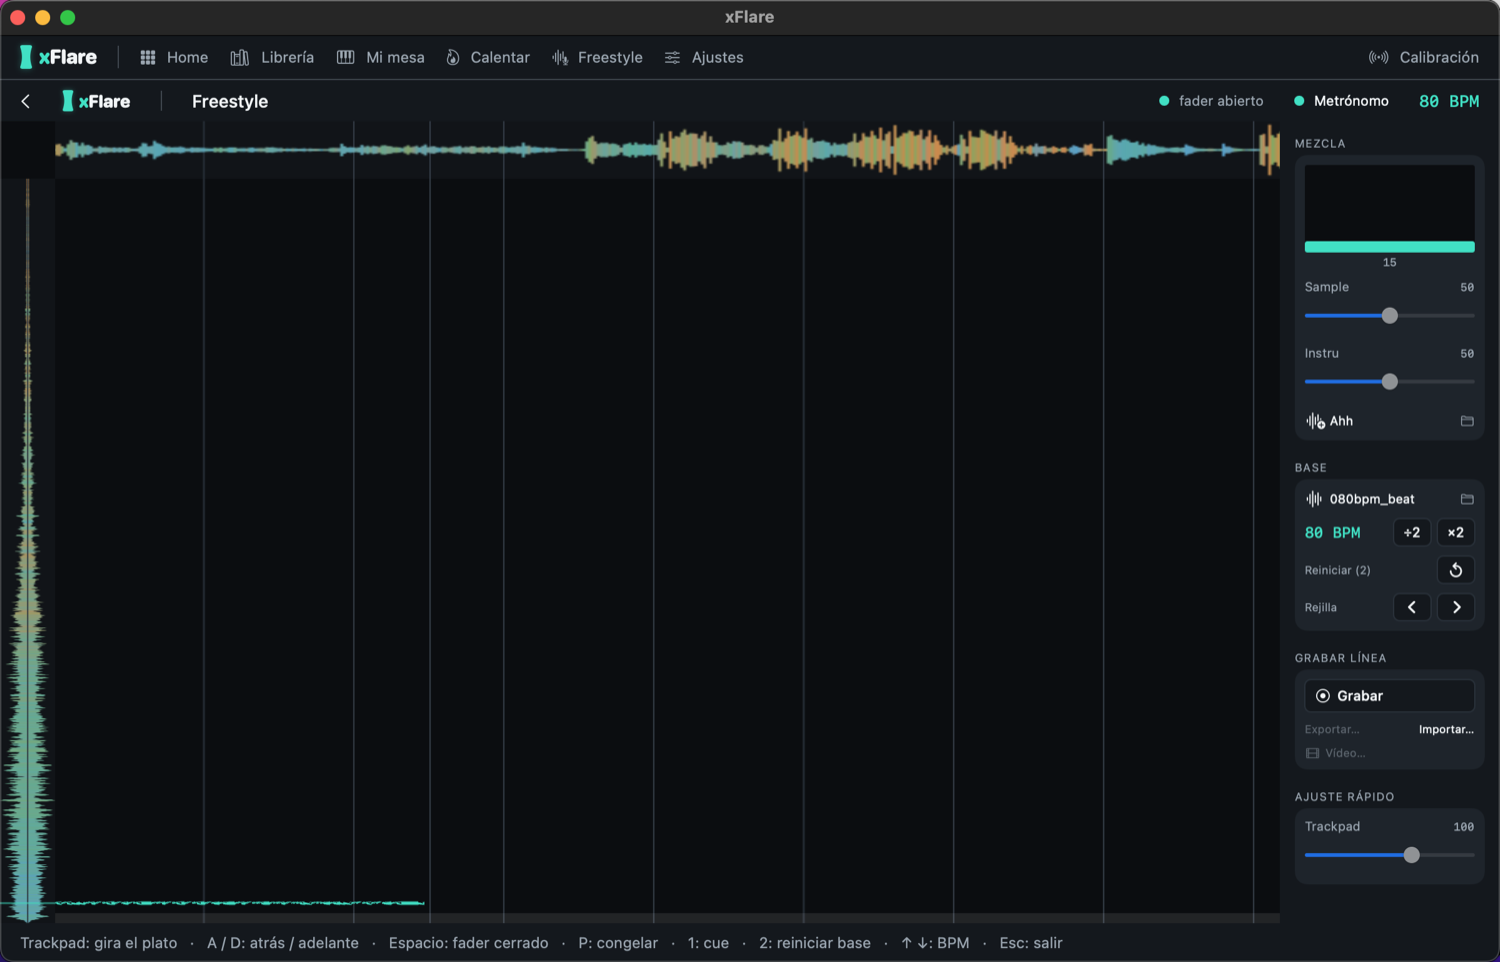
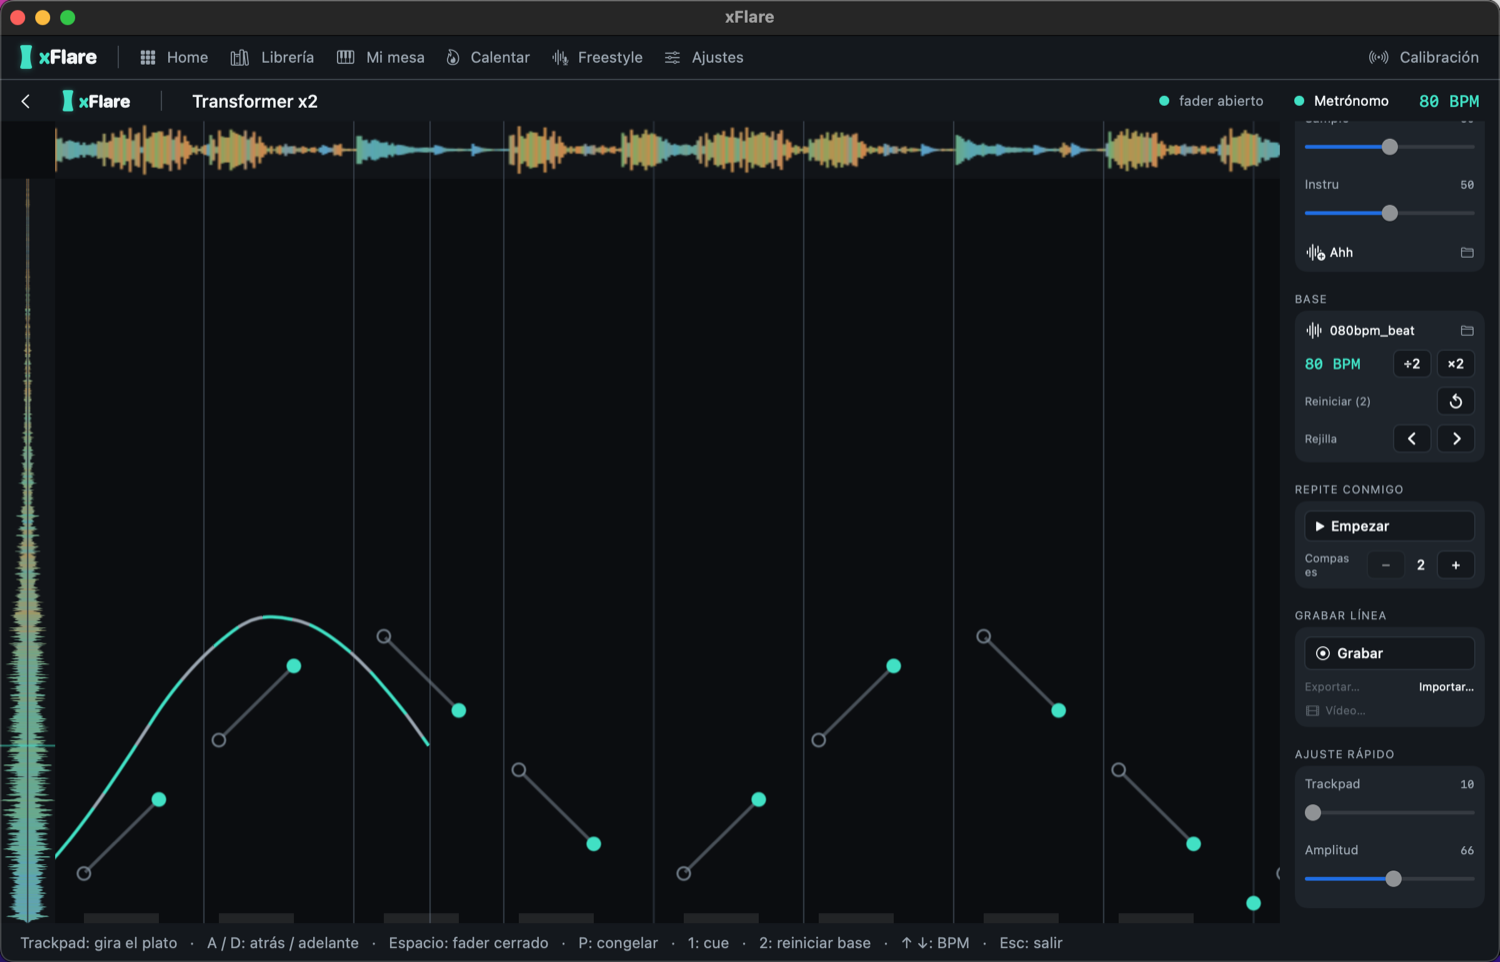
docs: captura de práctica con un ejercicio real (Transformer x2)
- practica.png reemplazada: ahora muestra un ejercicio de verdad con el
  patrón fantasma descendiendo y las marcas de fader ○/●, no Freestyle vacío.
- HomeView: las celdas de la matriz pasan de `.onTapGesture` a `Button`
  (navegables con teclado/VoiceOver; además así no se pierde ningún clic).
- LivePracticeView: "Compases" en el panel "Repite conmigo" con `.lineLimit(1)`
  + `.fixedSize()` para que no parta a dos líneas en el panel estrecho.

Claude-Session: https://claude.ai/code/session_01EenoUNJRXsb953j16yHsp6

diff --git a/Sources/XFApp/HomeView.swift b/Sources/XFApp/HomeView.swift
@@ -179,8 +179,12 @@ public struct HomeView: View {
                     LazyVGrid(columns: [GridItem(.adaptive(minimum: 104), spacing: XFSpacing.sm)],
                               alignment: .leading, spacing: XFSpacing.sm) {
                         ForEach(group.cells) { cell in
-                            MatrixCellView(cell: cell, thumbnail: summary.thumbnails[cell.scratchId])
-                                .onTapGesture { onSelect(cell.scratchId) }
+                            // Botón de verdad (no `.onTapGesture`): navegable con
+                            // teclado y VoiceOver, y no se pierde ningún clic.
+                            Button { onSelect(cell.scratchId) } label: {
+                                MatrixCellView(cell: cell, thumbnail: summary.thumbnails[cell.scratchId])
+                            }
+                            .buttonStyle(.plain)
                         }
                     }
                 }

diff --git a/Sources/XFApp/LivePracticeView.swift b/Sources/XFApp/LivePracticeView.swift
@@ -315,6 +315,7 @@ public struct LivePracticeView: View {
 
             HStack(spacing: 5) {
                 Text("Compases").font(XFFont.body(9)).foregroundColor(XFColor.textMuted)
+                    .lineLimit(1).fixedSize()
                 Spacer(minLength: 0)
                 chip("−") { session.setCallResponseBars(session.crBars / 2) }
                     .disabled(session.crBars <= 2)
